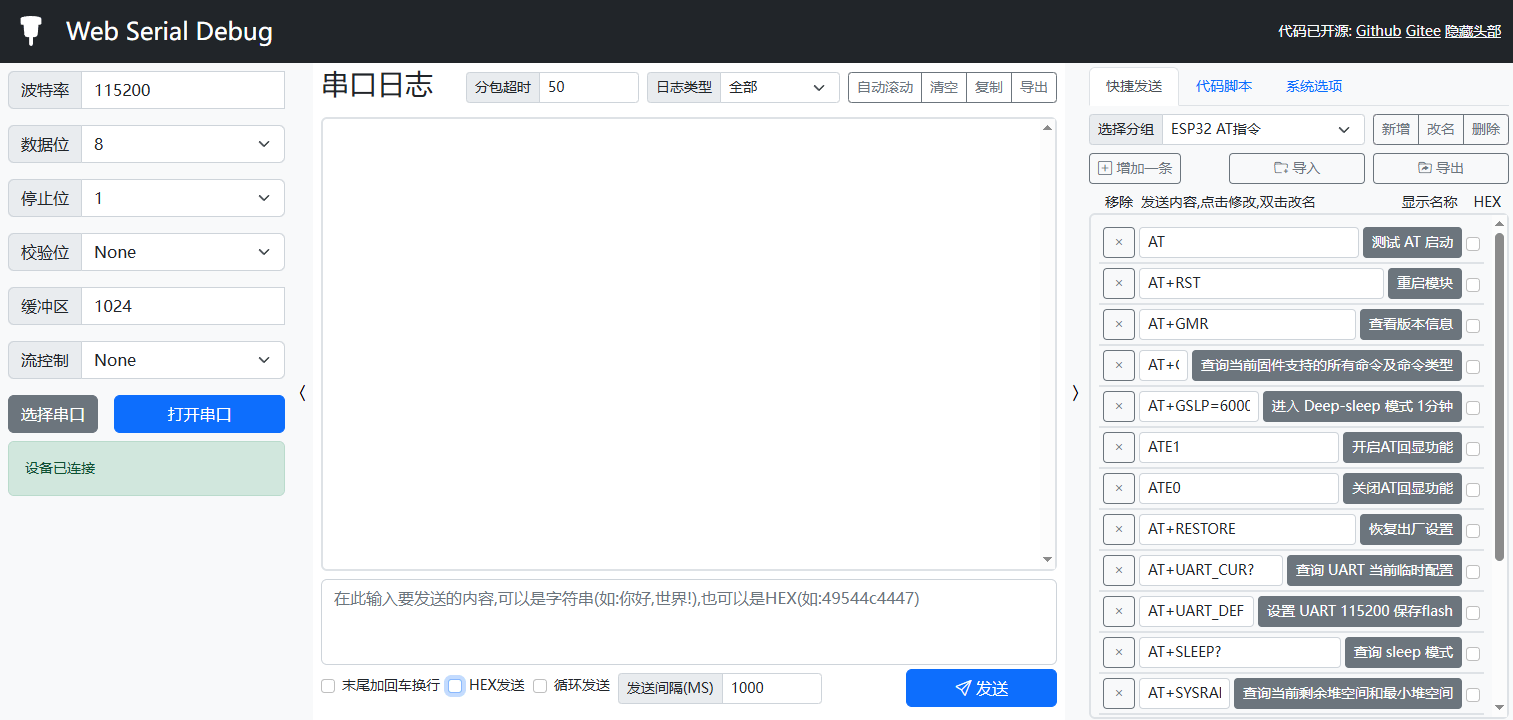
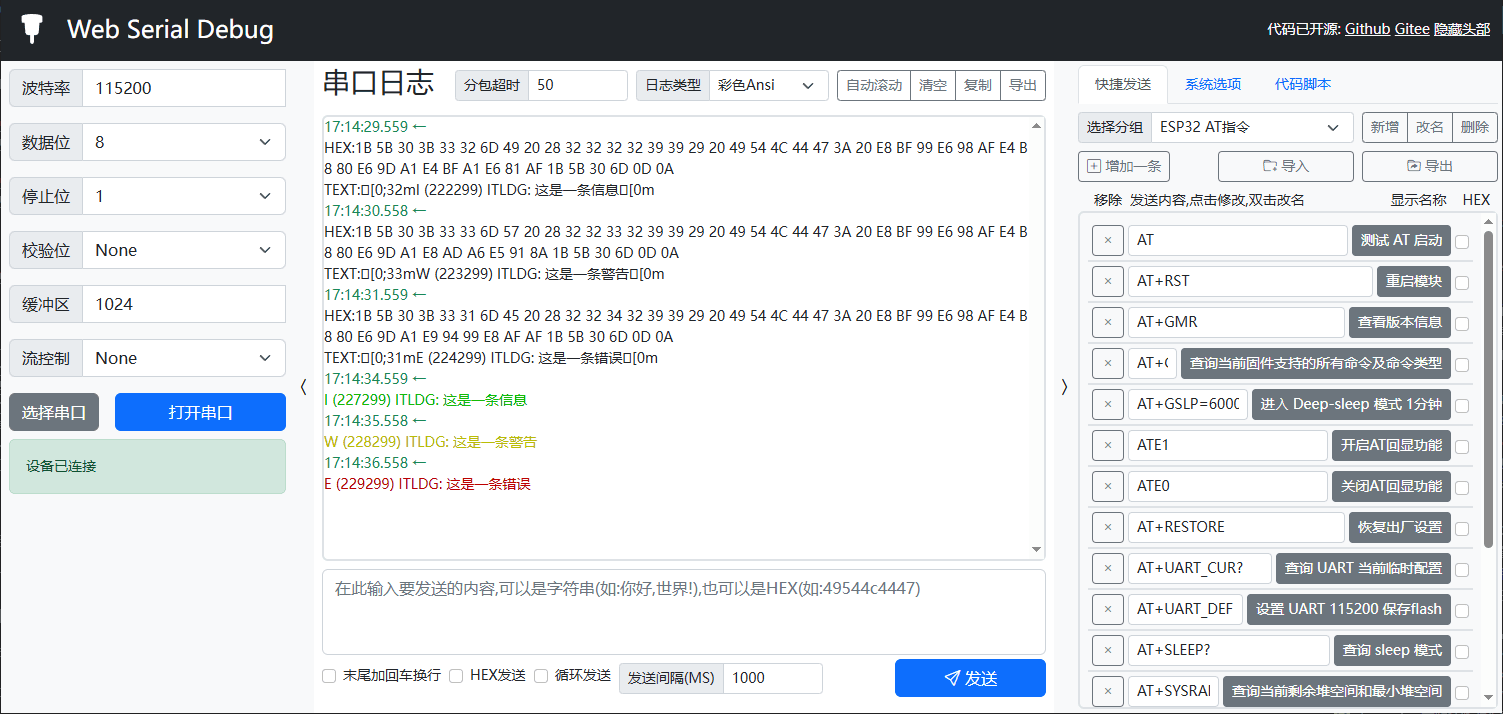
feat: 使用ansi_up解析彩色ANSI link #7

diff --git a/js/ansi_up.min.js b/js/ansi_up.min.js
@@ -1,0 +1,8 @@
+/**
+ * Minified by jsDelivr using Terser v5.19.2.
+ * Original file: /npm/ansi_up@5.1.0/ansi_up.js
+ *
+ * Do NOT use SRI with dynamically generated files! More information: https://www.jsdelivr.com/using-sri-with-dynamic-files
+ */
+!function(e,t){if("function"==typeof define&&define.amd)define(["exports"],t);else if("object"==typeof exports&&"string"!=typeof exports.nodeName)t(exports);else{var n={};t(n),e.AnsiUp=n.default}}(this,(function(e){"use strict";var t,n=this&&this.__makeTemplateObject||function(e,t){return Object.defineProperty?Object.defineProperty(e,"raw",{value:t}):e.raw=t,e};!function(e){e[e.EOS=0]="EOS",e[e.Text=1]="Text",e[e.Incomplete=2]="Incomplete",e[e.ESC=3]="ESC",e[e.Unknown=4]="Unknown",e[e.SGR=5]="SGR",e[e.OSCURL=6]="OSCURL"}(t||(t={}));var i=function(){function e(){this.VERSION="5.1.0",this.setup_palettes(),this._use_classes=!1,this.bold=!1,this.italic=!1,this.underline=!1,this.fg=this.bg=null,this._buffer="",this._url_whitelist={http:1,https:1}}return Object.defineProperty(e.prototype,"use_classes",{get:function(){return this._use_classes},set:function(e){this._use_classes=e},enumerable:!1,configurable:!0}),Object.defineProperty(e.prototype,"url_whitelist",{get:function(){return this._url_whitelist},set:function(e){this._url_whitelist=e},enumerable:!1,configurable:!0}),e.prototype.setup_palettes=function(){var e=this;this.ansi_colors=[[{rgb:[0,0,0],class_name:"ansi-black"},{rgb:[187,0,0],class_name:"ansi-red"},{rgb:[0,187,0],class_name:"ansi-green"},{rgb:[187,187,0],class_name:"ansi-yellow"},{rgb:[0,0,187],class_name:"ansi-blue"},{rgb:[187,0,187],class_name:"ansi-magenta"},{rgb:[0,187,187],class_name:"ansi-cyan"},{rgb:[255,255,255],class_name:"ansi-white"}],[{rgb:[85,85,85],class_name:"ansi-bright-black"},{rgb:[255,85,85],class_name:"ansi-bright-red"},{rgb:[0,255,0],class_name:"ansi-bright-green"},{rgb:[255,255,85],class_name:"ansi-bright-yellow"},{rgb:[85,85,255],class_name:"ansi-bright-blue"},{rgb:[255,85,255],class_name:"ansi-bright-magenta"},{rgb:[85,255,255],class_name:"ansi-bright-cyan"},{rgb:[255,255,255],class_name:"ansi-bright-white"}]],this.palette_256=[],this.ansi_colors.forEach((function(t){t.forEach((function(t){e.palette_256.push(t)}))}));for(var t=[0,95,135,175,215,255],n=0;n<6;++n)for(var i=0;i<6;++i)for(var s=0;s<6;++s){var r={rgb:[t[n],t[i],t[s]],class_name:"truecolor"};this.palette_256.push(r)}for(var a=8,l=0;l<24;++l,a+=10){var f={rgb:[a,a,a],class_name:"truecolor"};this.palette_256.push(f)}},e.prototype.escape_txt_for_html=function(e){return e.replace(/[&<>"']/gm,(function(e){return"&"===e?"&amp;":"<"===e?"&lt;":">"===e?"&gt;":'"'===e?"&quot;":"'"===e?"&#x27;":void 0}))},e.prototype.append_buffer=function(e){var t=this._buffer+e;this._buffer=t},e.prototype.get_next_packet=function(){var e={kind:t.EOS,text:"",url:""},i=this._buffer.length;if(0==i)return e;var r=this._buffer.indexOf("");if(-1==r)return e.kind=t.Text,e.text=this._buffer,this._buffer="",e;if(r>0)return e.kind=t.Text,e.text=this._buffer.slice(0,r),this._buffer=this._buffer.slice(r),e;if(0==r){if(1==i)return e.kind=t.Incomplete,e;var a=this._buffer.charAt(1);if("["!=a&&"]"!=a)return e.kind=t.ESC,e.text=this._buffer.slice(0,1),this._buffer=this._buffer.slice(1),e;if("["==a){if(this._csi_regex||(this._csi_regex=s(n(["\n                        ^                           # beginning of line\n                                                    #\n                                                    # First attempt\n                        (?:                         # legal sequence\n                          [                      # CSI\n                          ([<-?]?)              # private-mode char\n                          ([d;]*)                    # any digits or semicolons\n                          ([ -/]?               # an intermediate modifier\n                          [@-~])                # the command\n                        )\n                        |                           # alternate (second attempt)\n                        (?:                         # illegal sequence\n                          [                      # CSI\n                          [ -~]*                # anything legal\n                          ([\0-:])              # anything illegal\n                        )\n                    "],["\n                        ^                           # beginning of line\n                                                    #\n                                                    # First attempt\n                        (?:                         # legal sequence\n                          \\x1b\\[                      # CSI\n                          ([\\x3c-\\x3f]?)              # private-mode char\n                          ([\\d;]*)                    # any digits or semicolons\n                          ([\\x20-\\x2f]?               # an intermediate modifier\n                          [\\x40-\\x7e])                # the command\n                        )\n                        |                           # alternate (second attempt)\n                        (?:                         # illegal sequence\n                          \\x1b\\[                      # CSI\n                          [\\x20-\\x7e]*                # anything legal\n                          ([\\x00-\\x1f:])              # anything illegal\n                        )\n                    "]))),null===(h=this._buffer.match(this._csi_regex)))return e.kind=t.Incomplete,e;if(h[4])return e.kind=t.ESC,e.text=this._buffer.slice(0,1),this._buffer=this._buffer.slice(1),e;""!=h[1]||"m"!=h[3]?e.kind=t.Unknown:e.kind=t.SGR,e.text=h[2];var l=h[0].length;return this._buffer=this._buffer.slice(l),e}if("]"==a){if(i<4)return e.kind=t.Incomplete,e;if("8"!=this._buffer.charAt(2)||";"!=this._buffer.charAt(3))return e.kind=t.ESC,e.text=this._buffer.slice(0,1),this._buffer=this._buffer.slice(1),e;this._osc_st||(this._osc_st=function(e){for(var t=[],n=1;n<arguments.length;n++)t[n-1]=arguments[n];var i=e.raw[0],s=/^\s+|\s+\n|\s*#[\s\S]*?\n|\n/gm,r=i.replace(s,"");return new RegExp(r,"g")}(n(["\n                        (?:                         # legal sequence\n                          (\\)                    # ESC                           |                           # alternate\n                          ()                      # BEL (what xterm did)\n                        )\n                        |                           # alternate (second attempt)\n                        (                           # illegal sequence\n                          [\0-]                 # anything illegal\n                          |                           # alternate\n                          [\b-]                 # anything illegal\n                          |                           # alternate\n                          [-]                 # anything illegal\n                        )\n                    "],["\n                        (?:                         # legal sequence\n                          (\\x1b\\\\)                    # ESC \\\n                          |                           # alternate\n                          (\\x07)                      # BEL (what xterm did)\n                        )\n                        |                           # alternate (second attempt)\n                        (                           # illegal sequence\n                          [\\x00-\\x06]                 # anything illegal\n                          |                           # alternate\n                          [\\x08-\\x1a]                 # anything illegal\n                          |                           # alternate\n                          [\\x1c-\\x1f]                 # anything illegal\n                        )\n                    "]))),this._osc_st.lastIndex=0;var f=this._osc_st.exec(this._buffer);if(null===f)return e.kind=t.Incomplete,e;if(f[3])return e.kind=t.ESC,e.text=this._buffer.slice(0,1),this._buffer=this._buffer.slice(1),e;var h,o=this._osc_st.exec(this._buffer);if(null===o)return e.kind=t.Incomplete,e;if(o[3])return e.kind=t.ESC,e.text=this._buffer.slice(0,1),this._buffer=this._buffer.slice(1),e;if(this._osc_regex||(this._osc_regex=s(n(["\n                        ^                           # beginning of line\n                                                    #\n                        ]8;                    # OSC Hyperlink\n                        [ -:<-~]*       # params (excluding ;)\n                        ;                           # end of params\n                        ([!-~]{0,512})        # URL capture\n                        (?:                         # ST\n                          (?:\\)                  # ESC                           |                           # alternate\n                          (?:)                    # BEL (what xterm did)\n                        )\n                        ([ -~]+)              # TEXT capture\n                        ]8;;                   # OSC Hyperlink End\n                        (?:                         # ST\n                          (?:\\)                  # ESC                           |                           # alternate\n                          (?:)                    # BEL (what xterm did)\n                        )\n                    "],["\n                        ^                           # beginning of line\n                                                    #\n                        \\x1b\\]8;                    # OSC Hyperlink\n                        [\\x20-\\x3a\\x3c-\\x7e]*       # params (excluding ;)\n                        ;                           # end of params\n                        ([\\x21-\\x7e]{0,512})        # URL capture\n                        (?:                         # ST\n                          (?:\\x1b\\\\)                  # ESC \\\n                          |                           # alternate\n                          (?:\\x07)                    # BEL (what xterm did)\n                        )\n                        ([\\x20-\\x7e]+)              # TEXT capture\n                        \\x1b\\]8;;                   # OSC Hyperlink End\n                        (?:                         # ST\n                          (?:\\x1b\\\\)                  # ESC \\\n                          |                           # alternate\n                          (?:\\x07)                    # BEL (what xterm did)\n                        )\n                    "]))),null===(h=this._buffer.match(this._osc_regex)))return e.kind=t.ESC,e.text=this._buffer.slice(0,1),this._buffer=this._buffer.slice(1),e;e.kind=t.OSCURL,e.url=h[1],e.text=h[2];l=h[0].length;return this._buffer=this._buffer.slice(l),e}}},e.prototype.ansi_to_html=function(e){this.append_buffer(e);for(var n=[];;){var i=this.get_next_packet();if(i.kind==t.EOS||i.kind==t.Incomplete)break;i.kind!=t.ESC&&i.kind!=t.Unknown&&(i.kind==t.Text?n.push(this.transform_to_html(this.with_state(i))):i.kind==t.SGR?this.process_ansi(i):i.kind==t.OSCURL&&n.push(this.process_hyperlink(i)))}return n.join("")},e.prototype.with_state=function(e){return{bold:this.bold,italic:this.italic,underline:this.underline,fg:this.fg,bg:this.bg,text:e.text}},e.prototype.process_ansi=function(e){for(var t=e.text.split(";");t.length>0;){var n=t.shift(),i=parseInt(n,10);if(isNaN(i)||0===i)this.fg=this.bg=null,this.bold=!1,this.italic=!1,this.underline=!1;else if(1===i)this.bold=!0;else if(3===i)this.italic=!0;else if(4===i)this.underline=!0;else if(22===i)this.bold=!1;else if(23===i)this.italic=!1;else if(24===i)this.underline=!1;else if(39===i)this.fg=null;else if(49===i)this.bg=null;else if(i>=30&&i<38)this.fg=this.ansi_colors[0][i-30];else if(i>=40&&i<48)this.bg=this.ansi_colors[0][i-40];else if(i>=90&&i<98)this.fg=this.ansi_colors[1][i-90];else if(i>=100&&i<108)this.bg=this.ansi_colors[1][i-100];else if((38===i||48===i)&&t.length>0){var s=38===i,r=t.shift();if("5"===r&&t.length>0){var a=parseInt(t.shift(),10);a>=0&&a<=255&&(s?this.fg=this.palette_256[a]:this.bg=this.palette_256[a])}if("2"===r&&t.length>2){var l=parseInt(t.shift(),10),f=parseInt(t.shift(),10),h=parseInt(t.shift(),10);if(l>=0&&l<=255&&f>=0&&f<=255&&h>=0&&h<=255){var o={rgb:[l,f,h],class_name:"truecolor"};s?this.fg=o:this.bg=o}}}}},e.prototype.transform_to_html=function(e){var t=e.text;if(0===t.length)return t;if(t=this.escape_txt_for_html(t),!e.bold&&!e.italic&&!e.underline&&null===e.fg&&null===e.bg)return t;var n=[],i=[],s=e.fg,r=e.bg;e.bold&&n.push("font-weight:bold"),e.italic&&n.push("font-style:italic"),e.underline&&n.push("text-decoration:underline"),this._use_classes?(s&&("truecolor"!==s.class_name?i.push(s.class_name+"-fg"):n.push("color:rgb("+s.rgb.join(",")+")")),r&&("truecolor"!==r.class_name?i.push(r.class_name+"-bg"):n.push("background-color:rgb("+r.rgb.join(",")+")"))):(s&&n.push("color:rgb("+s.rgb.join(",")+")"),r&&n.push("background-color:rgb("+r.rgb+")"));var a="",l="";return i.length&&(a=' class="'+i.join(" ")+'"'),n.length&&(l=' style="'+n.join(";")+'"'),"<span"+l+a+">"+t+"</span>"},e.prototype.process_hyperlink=function(e){var t=e.url.split(":");return t.length<1?"":this._url_whitelist[t[0]]?'<a href="'+this.escape_txt_for_html(e.url)+'">'+this.escape_txt_for_html(e.text)+"</a>":""},e}();function s(e){for(var t=[],n=1;n<arguments.length;n++)t[n-1]=arguments[n];var i=e.raw[0].replace(/^\s+|\s+\n|\s*#[\s\S]*?\n|\n/gm,"");return new RegExp(i)}Object.defineProperty(e,"__esModule",{value:!0}),e.default=i}));
+//# sourceMappingURL=/sm/4d3540b0b4704da0b2f30c93a2183f0e35ea078c894e1425f728f3c5da2baeaa.map

diff --git a/js/common.js b/js/common.js
@@ -21,7 +21,7 @@
 	//串口缓存数据
 	let serialData = []
 	//文本解码
-	let asciidecoder = new TextDecoder()
+	let textdecoder = new TextDecoder()
 	let currQuickSend = []
 	//快捷发送列表
 	let quickSendList = [
@@ -124,7 +124,7 @@
 		//显示时间 界面未开放
 		showTime: true,
 		//日志类型
-		logType: 'hex&ascii',
+		logType: 'hex&text',
 		//分包合并时间
 		timeOut: 50,
 		//末尾加回车换行
@@ -653,7 +653,7 @@
 		}
 	}
 
-	//发送ASCII到串口
+	//发送文本到串口
 	async function sendText(text) {
 		const encoder = new TextEncoder()
 		writeData(encoder.encode(text))
@@ -716,7 +716,7 @@
 			serialData = []
 		}, toolOptions.timeOut)
 	}
-
+	var ansi_up = new AnsiUp;
 	//添加日志
 	function addLog(data, isReceive = true) {
 		let classname = 'text-primary'
@@ -737,13 +737,18 @@
 			}
 			newmsg += dataHex.join(' ') + '<br/>'
 		}
-		if (toolOptions.logType.includes('ascii')) {
-			let dataAscii = asciidecoder.decode(Uint8Array.from(data))
+		if (toolOptions.logType.includes('text')) {
+			let dataText = textdecoder.decode(Uint8Array.from(data))
 			if (toolOptions.logType.includes('&')) {
-				newmsg += 'TXT:'
+				newmsg += 'TEXT:'
 			}
 			//转义HTML标签,防止内容被当作标签渲染
-			newmsg += HTMLEncode(dataAscii) + '<br/>'
+			newmsg += HTMLEncode(dataText)
+		}
+		if (toolOptions.logType.includes('ansi')) {
+			const dataText = textdecoder.decode(Uint8Array.from(data))
+			const html = ansi_up.ansi_to_html(dataText);
+			newmsg += html 
 		}
 		let time = toolOptions.showTime ? formatDate(new Date()) + '&nbsp;' : ''
 		const template = '<div><span class="' + classname + '">' + time + form + '</span><br>' + newmsg + '</div>'

diff --git a/index.html b/index.html
@@ -158,9 +158,10 @@
                     <div class="input-group input-group-sm me-2">
                         <span class="input-group-text">日志类型</span>
                         <select class="form-select" id="serial-log-type" style="width: 120px;">
-                            <Option value="hex&ascii">全部</Option>
+                            <Option value="hex&text">Hex和Text</Option>
                             <Option value="hex">Hex</Option>
-                            <Option value="ascii">ASCII</Option>
+                            <Option value="text">Text</Option>
+                            <Option value="ansi">彩色Ansi</Option>
                         </select>
                     </div>
 
@@ -355,6 +356,7 @@ setInterval(function(){
             </div>
         </div>
     </div>
+    <script src="js/ansi_up.min.js"></script>
     <script src="js/common.js"></script>
 
 </body>

diff --git a/ReadMe.md b/ReadMe.md
@@ -16,7 +16,7 @@
 
 -   自动重连,设备插拔自动重连
 -   所有串口参数可设置更改,配置自动保存
--   串口日志支持 HEX 和 ASCII,自动滚动
+-   串口日志支持 HEX, TEXT 和 彩色ANSI,自动滚动
 -   分包合并,设定超时时间
 -   快捷发送列表,自定义分组,快捷导入导出
 -   配置文件导入导出,方便迁移
@@ -28,9 +28,9 @@
 
 调整串口参数后打开串口即可开始通讯
 
-中间区域是串口日志,可以选择 HEX 或者 ASCII 显示
+中间区域是串口日志,可以选择 HEX ,TEXT 或者 彩色ANSI 显示
 
-下方是发送区域,可以选择 HEX 或者 ASCII 发送,定时循环发送
+下方是发送区域,可以选择 HEX 或者 TEXT 发送,定时循环发送
 
 右侧可以自己添加一些常用指令,快捷发送
 
@@ -59,7 +59,7 @@ setInterval(function(){
 
 `onmessage`接收到的数据格式如下
 
-```json
+```js
 {
     "type":"uart_receive", //消息类型 String,目前仅支持 uart_receive
     "data":[0,1] //消息内容 Uint8Array
@@ -68,7 +68,7 @@ setInterval(function(){
 
 `postMessage`发送的数据格式如下
 
-```json
+```js
 {
     "type":"uart_send", 
     "data":[0,1]
